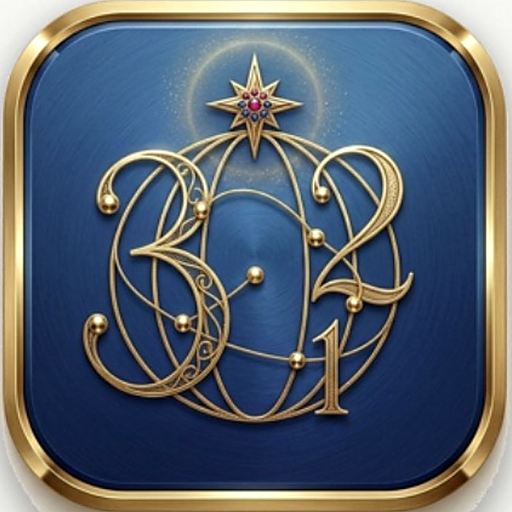
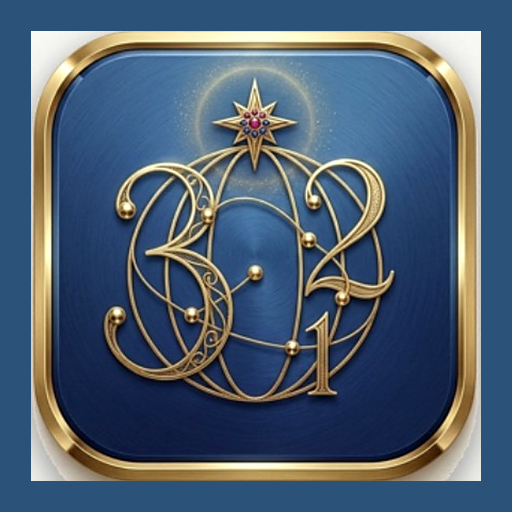
Add files via upload

diff --git a/index.html b/index.html
@@ -9,9 +9,15 @@
 <meta name="apple-mobile-web-app-status-bar-style" content="black-translucent">
 <meta name="apple-mobile-web-app-title" content="321空中團契">
 <link rel="manifest" href="manifest.json">
-<link rel="apple-touch-icon" href="icons/icon-180.png?v=2">
-<link rel="apple-touch-icon" sizes="180x180" href="icons/icon-180.png?v=2">
-<link rel="icon" type="image/png" sizes="192x192" href="icons/icon-192.png?v=2">
+<link rel="apple-touch-icon" href="apple-touch-icon.png?v=3">
+<link rel="apple-touch-icon" sizes="120x120" href="icons/icon-120.png?v=3">
+<link rel="apple-touch-icon" sizes="152x152" href="icons/icon-152.png?v=3">
+<link rel="apple-touch-icon" sizes="167x167" href="icons/icon-167.png?v=3">
+<link rel="apple-touch-icon" sizes="180x180" href="icons/icon-180.png?v=3">
+<link rel="apple-touch-icon-precomposed" href="apple-touch-icon-precomposed.png?v=3">
+<link rel="icon" type="image/png" sizes="192x192" href="icons/icon-192.png?v=3">
+<link rel="icon" type="image/png" sizes="512x512" href="icons/icon-512.png?v=3">
+<link rel="icon" type="image/png" sizes="32x32" href="icons/icon-76.png?v=3">
 <style>
 :root{
   --navy:#12233F; --blue:#2F5C93; --blue-2:#3E6FA8; --blue-light:#DCE6F2;